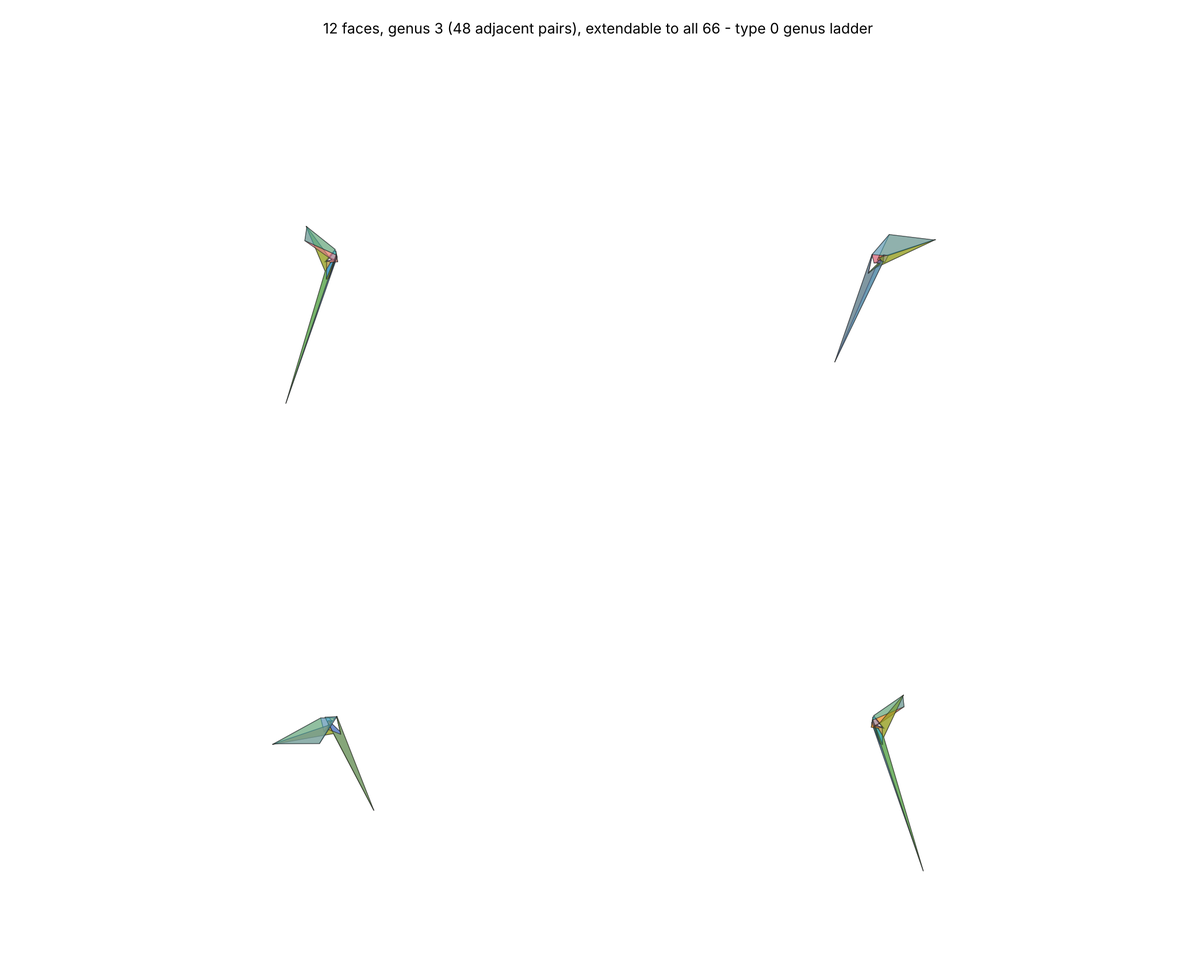
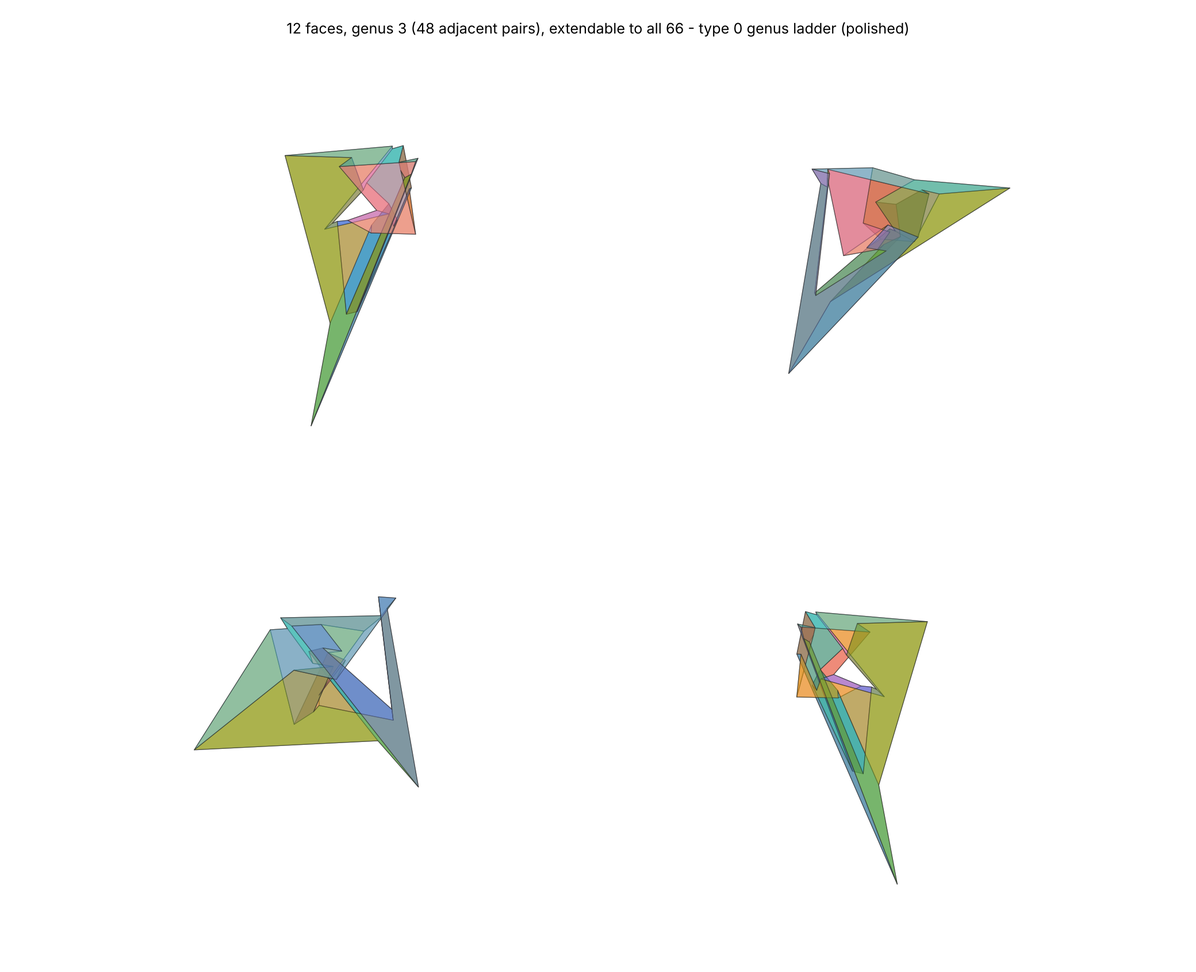
Polished extendable genus-3 polyhedron (beauty x34, exact EMBEDDED) and its picture
Claude-Session: https://claude.ai/code/session_01ARxMvmFKo5a6KFfJkQQMce

diff --git a/research/12-faced-polyhedron/figures/type0_genus3_extendable.html b/research/12-faced-polyhedron/figures/type0_genus3_extendable.html
@@ -1,1 +1,1 @@
-<!doctype html><html><head><meta charset="utf-8"><title>12 faces, genus 3 (48 adjacent pairs), extendable to all 66 - type 0 genus ladder</title><meta name="viewport" content="width=device-width, initial-scale=1"><script src="https://cdnjs.cloudflare.com/ajax/libs/plotly.js/2.27.0/plotly.min.js"></script><style>body{margin:0;background:#fff;font-family:sans-serif}#p{width:100vw;height:92vh}</style></head><body><div style="padding:8px">12 faces, genus 3 (48 adjacent pairs), extendable to all 66 - type 0 genus ladder - drag to rotate</div><div id="p"></div><script>Plotly.newPlot("p", [{"type": "mesh3d", "x": [0.013686609181727457, -0.02636867495457848, 0.001600755157602773, -0.0032965828418797713, -0.002077999082888916, 0.0018472366004558735, 0.08684358756785374, 0.07639365085805613, -0.025449099850801692], "y": [0.019972486161041057, 0.03028030236413229, 0.01505859754224224, 0.014784722804546962, -0.0067581193088864545, -0.015324311525285352, 0.03128363726821121, 0.04505719678962992, 0.045397863353737626], "z": [-0.022902934851897996, 0.013916095720509988, -0.008610080939816002, -0.003499759947135309, 0.0038026241644887274, 0.0031923299332703233, -0.10210593821250086, -0.09689792597126529, 0.006979176437264446], "i": [0, 0, 0, 0, 0, 0, 0, 0], "j": [1, 2, 3, 4, 5, 6, 7, 8], "k": [2, 3, 4, 5, 6, 7, 8, 1], "color": "#2a78d6", "opacity": 0.6, "name": "face 0"}, {"type": "scatter3d", "mode": "lines", "x": [-0.02636867495457848, 0.001600755157602773, -0.0032965828418797713, -0.002077999082888916, 0.0018472366004558735, 0.08684358756785374, 0.07639365085805613, -0.025449099850801692, -0.02636867495457848], "y": [0.03028030236413229, 0.01505859754224224, 0.014784722804546962, -0.0067581193088864545, -0.015324311525285352, 0.03128363726821121, 0.04505719678962992, 0.045397863353737626, 0.03028030236413229], "z": [0.013916095720509988, -0.008610080939816002, -0.003499759947135309, 0.0038026241644887274, 0.0031923299332703233, -0.10210593821250086, -0.09689792597126529, 0.006979176437264446, 0.013916095720509988], "line": {"color": "#222222", "width": 3}, "showlegend": false, "hoverinfo": "skip"}, {"type": "mesh3d", "x": [-0.032036110880695606, -0.025449099850801692, -3.1397592866391706e-05, -0.010480112698551109, 0.006092433171458325, 0.030447124543042835, -0.26391623854117024, 0.0038221620850997346, -0.0024411940878933946, -0.02636867495457848], "y": [-0.033833818656111556, 0.045397863353737626, 0.054179198565382204, 0.038620950485321444, 0.03227057837427876, -0.18510420557753407, -0.34083371959596703, 0.011939545210049111, 0.008745118915595634, 0.03028030236413229], "z": [0.042653444362363464, 0.006979176437264446, 0.012556566174994739, 0.01602711805997262, 0.02548840697875338, 0.13974158939737077, 0.10121217526736694, 0.034418574005493634, 0.033541297219544616, 0.013916095720509988], "i": [0, 0, 0, 0, 0, 0, 0, 0, 0], "j": [1, 2, 3, 4, 5, 6, 7, 8, 9], "k": [2, 3, 4, 5, 6, 7, 8, 9, 1], "color": "#eb6834", "opacity": 0.6, "name": "face 1"}, {"type": "scatter3d", "mode": "lines", "x": [-0.025449099850801692, -3.1397592866391706e-05, -0.010480112698551109, 0.006092433171458325, 0.030447124543042835, -0.26391623854117024, 0.0038221620850997346, -0.0024411940878933946, -0.02636867495457848, -0.025449099850801692], "y": [0.045397863353737626, 0.054179198565382204, 0.038620950485321444, 0.03227057837427876, -0.18510420557753407, -0.34083371959596703, 0.011939545210049111, 0.008745118915595634, 0.03028030236413229, 0.045397863353737626], "z": [0.006979176437264446, 0.012556566174994739, 0.01602711805997262, 0.02548840697875338, 0.13974158939737077, 0.10121217526736694, 0.034418574005493634, 0.033541297219544616, 0.013916095720509988, 0.006979176437264446], "line": {"color": "#222222", "width": 3}, "showlegend": false, "hoverinfo": "skip"}, {"type": "mesh3d", "x": [0.04192894786530688, -0.02636867495457848, -0.0024411940878933946, -0.04364449117122317, -0.049579576541849205, -0.04990193328393963, 0.4620384243506191, 0.04372827345371712, 0.001600755157602773], "y": [0.007269252914990303, 0.03028030236413229, 0.008745118915595634, 0.02905781013324224, 0.033872919828591065, 0.044250950986770766, -0.09970122961309788, -0.0034104468375539417, 0.01505859754224224], "z": [-0.10577784491925482, 0.013916095720509988, 0.033541297219544616, 0.0763718658425457, 0.07390982614329653, 0.02755477676458636, -1.0, -0.0629065401047058, -0.008610080939816002], "i": [0, 0, 0, 0, 0, 0, 0, 0], "j": [1, 2, 3, 4, 5, 6, 7, 8], "k": [2, 3, 4, 5, 6, 7, 8, 1], "color": "#1baf7a", "opacity": 0.6, "name": "face 2"}, {"type": "scatter3d", "mode": "lines", "x": [-0.02636867495457848, -0.0024411940878933946, -0.04364449117122317, -0.049579576541849205, -0.04990193328393963, 0.4620384243506191, 0.04372827345371712, 0.001600755157602773, -0.02636867495457848], "y": [0.03028030236413229, 0.008745118915595634, 0.02905781013324224, 0.033872919828591065, 0.044250950986770766, -0.09970122961309788, -0.0034104468375539417, 0.01505859754224224, 0.03028030236413229], "z": [0.013916095720509988, 0.033541297219544616, 0.0763718658425457, 0.07390982614329653, 0.02755477676458636, -1.0, -0.0629065401047058, -0.008610080939816002, 0.013916095720509988], "line": {"color": "#222222", "width": 3}, "showlegend": false, "hoverinfo": "skip"}, {"type": "mesh3d", "x": [-0.03500013896383689, 0.001600755157602773, 0.04372827345371712, -0.27120038161963317, -0.07458125652306181, -0.014564458043698459, -0.010480112698551109, -3.1397592866391706e-05, -0.02750519834264177, 0.006328969412643666, -0.0032965828418797713], "y": [-0.012372539485415338, 0.01505859754224224, -0.0034104468375539417, -0.35146858998527586, 0.013394182150872644, -0.04060576195883535, 0.038620950485321444, 0.054179198565382204, 0.054746862777013926, 0.0809748896021324, 0.014784722804546962], "z": [0.016982620929827063, -0.008610080939816002, -0.0629065401047058, 0.10169530010711021, 0.07217358538497923, -0.01892312419237348, 0.01602711805997262, 0.012556566174994739, 0.042269590836379586, 0.019043553918864867, -0.003499759947135309], "i": [0, 0, 0, 0, 0, 0, 0, 0, 0, 0], "j": [1, 2, 3, 4, 5, 6, 7, 8, 9, 10], "k": [2, 3, 4, 5, 6, 7, 8, 9, 10, 1], "color": "#eda100", "opacity": 0.6, "name": "face 3"}, {"type": "scatter3d", "mode": "lines", "x": [0.001600755157602773, 0.04372827345371712, -0.27120038161963317, -0.07458125652306181, -0.014564458043698459, -0.010480112698551109, -3.1397592866391706e-05, -0.02750519834264177, 0.006328969412643666, -0.0032965828418797713, 0.001600755157602773], "y": [0.01505859754224224, -0.0034104468375539417, -0.35146858998527586, 0.013394182150872644, -0.04060576195883535, 0.038620950485321444, 0.054179198565382204, 0.054746862777013926, 0.0809748896021324, 0.014784722804546962, 0.01505859754224224], "z": [-0.008610080939816002, -0.0629065401047058, 0.10169530010711021, 0.07217358538497923, -0.01892312419237348, 0.01602711805997262, 0.012556566174994739, 0.042269590836379586, 0.019043553918864867, -0.003499759947135309, -0.008610080939816002], "line": {"color": "#222222", "width": 3}, "showlegend": false, "hoverinfo": "skip"}, {"type": "mesh3d", "x": [0.015060989667626182, -0.0032965828418797713, 0.006328969412643666, 0.023876699764806778, 0.024137086057225598, 0.024977276256605063, 0.025063899727622067, 0.030447124543042835, 0.006092433171458325, -0.002077999082888916], "y": [0.028192047670523596, 0.014784722804546962, 0.0809748896021324, 0.07826614779810359, 0.07765839025237525, 0.0807668536347514, 0.08086917145494463, -0.18510420557753407, 0.03227057837427876, -0.0067581193088864545], "z": [0.056267885830733486, -0.003499759947135309, 0.019043553918864867, 0.07848252596179593, 0.07944890261890873, 0.08181345546800323, 0.08208967391555104, 0.13974158939737077, 0.02548840697875338, 0.0038026241644887274], "i": [0, 0, 0, 0, 0, 0, 0, 0, 0], "j": [1, 2, 3, 4, 5, 6, 7, 8, 9], "k": [2, 3, 4, 5, 6, 7, 8, 9, 1], "color": "#e87ba4", "opacity": 0.6, "name": "face 4"}, {"type": "scatter3d", "mode": "lines", "x": [-0.0032965828418797713, 0.006328969412643666, 0.023876699764806778, 0.024137086057225598, 0.024977276256605063, 0.025063899727622067, 0.030447124543042835, 0.006092433171458325, -0.002077999082888916, -0.0032965828418797713], "y": [0.014784722804546962, 0.0809748896021324, 0.07826614779810359, 0.07765839025237525, 0.0807668536347514, 0.08086917145494463, -0.18510420557753407, 0.03227057837427876, -0.0067581193088864545, 0.014784722804546962], "z": [-0.003499759947135309, 0.019043553918864867, 0.07848252596179593, 0.07944890261890873, 0.08181345546800323, 0.08208967391555104, 0.13974158939737077, 0.02548840697875338, 0.0038026241644887274, -0.003499759947135309], "line": {"color": "#222222", "width": 3}, "showlegend": false, "hoverinfo": "skip"}, {"type": "mesh3d", "x": [-0.0028995877311982564, -0.002077999082888916, 0.006092433171458325, -0.010480112698551109, -0.014564458043698459, 0.001785373666034746, 0.0018472366004558735], "y": [-0.0012180230434134486, -0.0067581193088864545, 0.03227057837427876, 0.038620950485321444, -0.04060576195883535, -0.015511474327073746, -0.015324311525285352], "z": [0.005443205413388355, 0.0038026241644887274, 0.02548840697875338, 0.01602711805997262, -0.01892312419237348, 0.003071877536218567, 0.0031923299332703233], "i": [0, 0, 0, 0, 0, 0], "j": [1, 2, 3, 4, 5, 6], "k": [2, 3, 4, 5, 6, 1], "color": "#8a63d2", "opacity": 0.6, "name": "face 5"}, {"type": "scatter3d", "mode": "lines", "x": [-0.002077999082888916, 0.006092433171458325, -0.010480112698551109, -0.014564458043698459, 0.001785373666034746, 0.0018472366004558735, -0.002077999082888916], "y": [-0.0067581193088864545, 0.03227057837427876, 0.038620950485321444, -0.04060576195883535, -0.015511474327073746, -0.015324311525285352, -0.0067581193088864545], "z": [0.0038026241644887274, 0.02548840697875338, 0.01602711805997262, -0.01892312419237348, 0.003071877536218567, 0.0031923299332703233, 0.0038026241644887274], "line": {"color": "#222222", "width": 3}, "showlegend": false, "hoverinfo": "skip"}, {"type": "mesh3d", "x": [-0.06681725306915992, 0.030447124543042835, 0.025063899727622067, 0.02220495570616272, 0.023850686797670658, -0.049579576541849205, -0.04364449117122317, -0.07458125652306181, -0.27120038161963317, -0.26391623854117024], "y": [-0.06255227368372689, -0.18510420557753407, 0.08086917145494463, 0.07991916572839305, 0.07732280270919142, 0.033872919828591065, 0.02905781013324224, 0.013394182150872644, -0.35146858998527586, -0.34083371959596703], "z": [0.09014849972986078, 0.13974158939737077, 0.08208967391555104, 0.08159630754516388, 0.08254617396536273, 0.07390982614329653, 0.0763718658425457, 0.07217358538497923, 0.10169530010711021, 0.10121217526736694], "i": [0, 0, 0, 0, 0, 0, 0, 0, 0], "j": [1, 2, 3, 4, 5, 6, 7, 8, 9], "k": [2, 3, 4, 5, 6, 7, 8, 9, 1], "color": "#3fb6c6", "opacity": 0.6, "name": "face 6"}, {"type": "scatter3d", "mode": "lines", "x": [0.030447124543042835, 0.025063899727622067, 0.02220495570616272, 0.023850686797670658, -0.049579576541849205, -0.04364449117122317, -0.07458125652306181, -0.27120038161963317, -0.26391623854117024, 0.030447124543042835], "y": [-0.18510420557753407, 0.08086917145494463, 0.07991916572839305, 0.07732280270919142, 0.033872919828591065, 0.02905781013324224, 0.013394182150872644, -0.35146858998527586, -0.34083371959596703, -0.18510420557753407], "z": [0.13974158939737077, 0.08208967391555104, 0.08159630754516388, 0.08254617396536273, 0.07390982614329653, 0.0763718658425457, 0.07217358538497923, 0.10169530010711021, 0.10121217526736694, 0.13974158939737077], "line": {"color": "#222222", "width": 3}, "showlegend": false, "hoverinfo": "skip"}, {"type": "mesh3d", "x": [-0.012155058698884919, -0.049579576541849205, 0.023850686797670658, 0.023876699764806778, 0.006328969412643666, -0.02750519834264177, -0.04990193328393963], "y": [0.061572428950300524, 0.033872919828591065, 0.07732280270919142, 0.07826614779810359, 0.0809748896021324, 0.054746862777013926, 0.044250950986770766], "z": [0.053967741265047664, 0.07390982614329653, 0.08254617396536273, 0.07848252596179593, 0.019043553918864867, 0.042269590836379586, 0.02755477676458636], "i": [0, 0, 0, 0, 0, 0], "j": [1, 2, 3, 4, 5, 6], "k": [2, 3, 4, 5, 6, 1], "color": "#c4553a", "opacity": 0.6, "name": "face 7"}, {"type": "scatter3d", "mode": "lines", "x": [-0.049579576541849205, 0.023850686797670658, 0.023876699764806778, 0.006328969412643666, -0.02750519834264177, -0.04990193328393963, -0.049579576541849205], "y": [0.033872919828591065, 0.07732280270919142, 0.07826614779810359, 0.0809748896021324, 0.054746862777013926, 0.044250950986770766, 0.033872919828591065], "z": [0.07390982614329653, 0.08254617396536273, 0.07848252596179593, 0.019043553918864867, 0.042269590836379586, 0.02755477676458636, 0.07390982614329653], "line": {"color": "#222222", "width": 3}, "showlegend": false, "hoverinfo": "skip"}, {"type": "mesh3d", "x": [0.01140627998768076, 0.0018472366004558735, 0.001785373666034746, 0.0038221620850997346, -0.26391623854117024, -0.27120038161963317, 0.04372827345371712, 0.4620384243506191, 0.024977276256605063, 0.024137086057225598, 0.08684358756785374], "y": [-0.06246013455188668, -0.015324311525285352, -0.015511474327073746, 0.011939545210049111, -0.34083371959596703, -0.35146858998527586, -0.0034104468375539417, -0.09970122961309788, 0.0807668536347514, 0.07765839025237525, 0.03128363726821121], "z": [-0.07601598633808351, 0.0031923299332703233, 0.003071877536218567, 0.034418574005493634, 0.10121217526736694, 0.10169530010711021, -0.0629065401047058, -1.0, 0.08181345546800323, 0.07944890261890873, -0.10210593821250086], "i": [0, 0, 0, 0, 0, 0, 0, 0, 0, 0], "j": [1, 2, 3, 4, 5, 6, 7, 8, 9, 10], "k": [2, 3, 4, 5, 6, 7, 8, 9, 10, 1], "color": "#6f9e2f", "opacity": 0.6, "name": "face 8"}, {"type": "scatter3d", "mode": "lines", "x": [0.0018472366004558735, 0.001785373666034746, 0.0038221620850997346, -0.26391623854117024, -0.27120038161963317, 0.04372827345371712, 0.4620384243506191, 0.024977276256605063, 0.024137086057225598, 0.08684358756785374, 0.0018472366004558735], "y": [-0.015324311525285352, -0.015511474327073746, 0.011939545210049111, -0.34083371959596703, -0.35146858998527586, -0.0034104468375539417, -0.09970122961309788, 0.0807668536347514, 0.07765839025237525, 0.03128363726821121, -0.015324311525285352], "z": [0.0031923299332703233, 0.003071877536218567, 0.034418574005493634, 0.10121217526736694, 0.10169530010711021, -0.0629065401047058, -1.0, 0.08181345546800323, 0.07944890261890873, -0.10210593821250086, 0.0031923299332703233], "line": {"color": "#222222", "width": 3}, "showlegend": false, "hoverinfo": "skip"}, {"type": "mesh3d", "x": [0.04288444445862927, 0.08684358756785374, 0.024137086057225598, 0.023876699764806778, 0.023850686797670658, 0.02220495570616272, 0.07639365085805613], "y": [0.06491789009098409, 0.03128363726821121, 0.07765839025237525, 0.07826614779810359, 0.07732280270919142, 0.07991916572839305, 0.04505719678962992], "z": [0.020511674317910854, -0.10210593821250086, 0.07944890261890873, 0.07848252596179593, 0.08254617396536273, 0.08159630754516388, -0.09689792597126529], "i": [0, 0, 0, 0, 0, 0], "j": [1, 2, 3, 4, 5, 6], "k": [2, 3, 4, 5, 6, 1], "color": "#b8860b", "opacity": 0.6, "name": "face 9"}, {"type": "scatter3d", "mode": "lines", "x": [0.08684358756785374, 0.024137086057225598, 0.023876699764806778, 0.023850686797670658, 0.02220495570616272, 0.07639365085805613, 0.08684358756785374], "y": [0.03128363726821121, 0.07765839025237525, 0.07826614779810359, 0.07732280270919142, 0.07991916572839305, 0.04505719678962992, 0.03128363726821121], "z": [-0.10210593821250086, 0.07944890261890873, 0.07848252596179593, 0.08254617396536273, 0.08159630754516388, -0.09689792597126529, -0.10210593821250086], "line": {"color": "#222222", "width": 3}, "showlegend": false, "hoverinfo": "skip"}, {"type": "mesh3d", "x": [-0.021603977345790393, 0.0038221620850997346, 0.001785373666034746, -0.014564458043698459, -0.07458125652306181, -0.04364449117122317, -0.0024411940878933946], "y": [0.0011699033539750894, 0.011939545210049111, -0.015511474327073746, -0.04060576195883535, 0.013394182150872644, 0.02905781013324224, 0.008745118915595634], "z": [0.03344234596606804, 0.034418574005493634, 0.003071877536218567, -0.01892312419237348, 0.07217358538497923, 0.0763718658425457, 0.033541297219544616], "i": [0, 0, 0, 0, 0, 0], "j": [1, 2, 3, 4, 5, 6], "k": [2, 3, 4, 5, 6, 1], "color": "#d0679d", "opacity": 0.6, "name": "face 10"}, {"type": "scatter3d", "mode": "lines", "x": [0.0038221620850997346, 0.001785373666034746, -0.014564458043698459, -0.07458125652306181, -0.04364449117122317, -0.0024411940878933946, 0.0038221620850997346], "y": [0.011939545210049111, -0.015511474327073746, -0.04060576195883535, 0.013394182150872644, 0.02905781013324224, 0.008745118915595634, 0.011939545210049111], "z": [0.034418574005493634, 0.003071877536218567, -0.01892312419237348, 0.07217358538497923, 0.0763718658425457, 0.033541297219544616, 0.034418574005493634], "line": {"color": "#222222", "width": 3}, "showlegend": false, "hoverinfo": "skip"}, {"type": "mesh3d", "x": [0.05642117531431284, 0.07639365085805613, 0.02220495570616272, 0.025063899727622067, 0.024977276256605063, 0.4620384243506191, -0.04990193328393963, -0.02750519834264177, -3.1397592866391706e-05, -0.025449099850801692], "y": [0.042831781519725075, 0.04505719678962992, 0.07991916572839305, 0.08086917145494463, 0.0807668536347514, -0.09970122961309788, 0.044250950986770766, 0.054746862777013926, 0.054179198565382204, 0.045397863353737626], "z": [-0.08467093098103577, -0.09689792597126529, 0.08159630754516388, 0.08208967391555104, 0.08181345546800323, -1.0, 0.02755477676458636, 0.042269590836379586, 0.012556566174994739, 0.006979176437264446], "i": [0, 0, 0, 0, 0, 0, 0, 0, 0], "j": [1, 2, 3, 4, 5, 6, 7, 8, 9], "k": [2, 3, 4, 5, 6, 7, 8, 9, 1], "color": "#5a6fb3", "opacity": 0.6, "name": "face 11"}, {"type": "scatter3d", "mode": "lines", "x": [0.07639365085805613, 0.02220495570616272, 0.025063899727622067, 0.024977276256605063, 0.4620384243506191, -0.04990193328393963, -0.02750519834264177, -3.1397592866391706e-05, -0.025449099850801692, 0.07639365085805613], "y": [0.04505719678962992, 0.07991916572839305, 0.08086917145494463, 0.0807668536347514, -0.09970122961309788, 0.044250950986770766, 0.054746862777013926, 0.054179198565382204, 0.045397863353737626, 0.04505719678962992], "z": [-0.09689792597126529, 0.08159630754516388, 0.08208967391555104, 0.08181345546800323, -1.0, 0.02755477676458636, 0.042269590836379586, 0.012556566174994739, 0.006979176437264446, -0.09689792597126529], "line": {"color": "#222222", "width": 3}, "showlegend": false, "hoverinfo": "skip"}], {scene:{aspectmode:"cube",xaxis:{visible:false},yaxis:{visible:false},zaxis:{visible:false}},margin:{l:0,r:0,t:0,b:0}});</script></body></html>
+<!doctype html><html><head><meta charset="utf-8"><title>12 faces, genus 3 (48 adjacent pairs), extendable to all 66 - type 0 genus ladder (polished)</title><meta name="viewport" content="width=device-width, initial-scale=1"><script src="https://cdnjs.cloudflare.com/ajax/libs/plotly.js/2.27.0/plotly.min.js"></script><style>body{margin:0;background:#fff;font-family:sans-serif}#p{width:100vw;height:92vh}</style></head><body><div style="padding:8px">12 faces, genus 3 (48 adjacent pairs), extendable to all 66 - type 0 genus ladder (polished) - drag to rotate</div><div id="p"></div><script>Plotly.newPlot("p", [{"type": "mesh3d", "x": [-0.06437928193515932, -0.34652032315526027, -0.1808113495928953, -0.13816819451070692, -0.13052808775337665, -0.09185975356496928, 0.354835801853336, 0.3068254489616566, -0.28880779771905857], "y": [0.26943485044845444, 0.31348637283589387, 0.2616305929949012, 0.28087697220943236, 0.08837662148832981, 0.021099991210585693, 0.3541797088637834, 0.4188151043355833, 0.417013439649126], "z": [0.18413552120682644, 0.4041811952725126, 0.2840647453325696, 0.24171215961607515, 0.3029184496294105, 0.29426057193262994, -0.1955481894347362, -0.1781649592981768, 0.3196601966043268], "i": [0, 0, 0, 0, 0, 0, 0, 0], "j": [1, 2, 3, 4, 5, 6, 7, 8], "k": [2, 3, 4, 5, 6, 7, 8, 1], "color": "#2a78d6", "opacity": 0.6, "name": "face 0"}, {"type": "scatter3d", "mode": "lines", "x": [-0.34652032315526027, -0.1808113495928953, -0.13816819451070692, -0.13052808775337665, -0.09185975356496928, 0.354835801853336, 0.3068254489616566, -0.28880779771905857, -0.34652032315526027], "y": [0.31348637283589387, 0.2616305929949012, 0.28087697220943236, 0.08837662148832981, 0.021099991210585693, 0.3541797088637834, 0.4188151043355833, 0.417013439649126, 0.31348637283589387], "z": [0.4041811952725126, 0.2840647453325696, 0.24171215961607515, 0.3029184496294105, 0.29426057193262994, -0.1955481894347362, -0.1781649592981768, 0.3196601966043268, 0.4041811952725126], "line": {"color": "#222222", "width": 3}, "showlegend": false, "hoverinfo": "skip"}, {"type": "mesh3d", "x": [-0.18990148876044044, -0.28880779771905857, -0.1537768425795607, -0.22555372610162044, -0.06837426564191139, 0.009060255001583735, -0.2991874768510429, -0.09769808058567657, -0.23825514121141672, -0.34652032315526027], "y": [0.27539490004742434, 0.417013439649126, 0.46070085435630415, 0.3815836165949812, 0.36473688394271775, 0.09506937853804921, 0.023746461588306216, 0.23642375292113768, 0.18579334000030306, 0.31348637283589387], "z": [0.5105488099973425, 0.3196601966043268, 0.33083259673608906, 0.38371404157454025, 0.4679622716869293, 0.7845146178371463, 0.7291171944994146, 0.5905809466244897, 0.5843762291406354, 0.4041811952725126], "i": [0, 0, 0, 0, 0, 0, 0, 0, 0], "j": [1, 2, 3, 4, 5, 6, 7, 8, 9], "k": [2, 3, 4, 5, 6, 7, 8, 9, 1], "color": "#eb6834", "opacity": 0.6, "name": "face 1"}, {"type": "scatter3d", "mode": "lines", "x": [-0.28880779771905857, -0.1537768425795607, -0.22555372610162044, -0.06837426564191139, 0.009060255001583735, -0.2991874768510429, -0.09769808058567657, -0.23825514121141672, -0.34652032315526027, -0.28880779771905857], "y": [0.417013439649126, 0.46070085435630415, 0.3815836165949812, 0.36473688394271775, 0.09506937853804921, 0.023746461588306216, 0.23642375292113768, 0.18579334000030306, 0.31348637283589387, 0.417013439649126], "z": [0.3196601966043268, 0.33083259673608906, 0.38371404157454025, 0.4679622716869293, 0.7845146178371463, 0.7291171944994146, 0.5905809466244897, 0.5843762291406354, 0.4041811952725126, 0.3196601966043268], "line": {"color": "#222222", "width": 3}, "showlegend": false, "hoverinfo": "skip"}, {"type": "mesh3d", "x": [-0.17311214343579653, -0.34652032315526027, -0.23825514121141672, -0.4902777469465433, -0.573506388059111, -0.5396181736189111, 0.6681052765257243, 0.3159866985720415, -0.1808113495928953], "y": [0.2699675722276571, 0.31348637283589387, 0.18579334000030306, 0.26004914583191274, 0.3062099395650022, 0.3981360993771438, 0.23850120210785555, 0.19593388510824425, 0.2616305929949012], "z": [0.24885292792812203, 0.4041811952725126, 0.5843762291406354, 0.7797704713232564, 0.7846343168003138, 0.47736029494328447, -1.0, -0.32356382938759576, 0.2840647453325696], "i": [0, 0, 0, 0, 0, 0, 0, 0], "j": [1, 2, 3, 4, 5, 6, 7, 8], "k": [2, 3, 4, 5, 6, 7, 8, 1], "color": "#1baf7a", "opacity": 0.6, "name": "face 2"}, {"type": "scatter3d", "mode": "lines", "x": [-0.34652032315526027, -0.23825514121141672, -0.4902777469465433, -0.573506388059111, -0.5396181736189111, 0.6681052765257243, 0.3159866985720415, -0.1808113495928953, -0.34652032315526027], "y": [0.31348637283589387, 0.18579334000030306, 0.26004914583191274, 0.3062099395650022, 0.3981360993771438, 0.23850120210785555, 0.19593388510824425, 0.2616305929949012, 0.31348637283589387], "z": [0.4041811952725126, 0.5843762291406354, 0.7797704713232564, 0.7846343168003138, 0.47736029494328447, -1.0, -0.32356382938759576, 0.2840647453325696, 0.4041811952725126], "line": {"color": "#222222", "width": 3}, "showlegend": false, "hoverinfo": "skip"}, {"type": "mesh3d", "x": [-0.22847662802430624, -0.1808113495928953, 0.3159866985720415, -0.6681052765257243, -0.5990804411155639, -0.2038633959867185, -0.22555372610162044, -0.1537768425795607, -0.3423484083941272, -0.08904534400818706, -0.13816819451070692], "y": [0.20213511733980152, 0.2616305929949012, 0.19593388510824425, -0.7709435025211471, 0.20082456212508554, -0.15152068242899874, 0.3815836165949812, 0.46070085435630415, 0.4856110487909599, 0.6766538261682523, 0.28087697220943236], "z": [0.31644179988935645, 0.2840647453325696, -0.32356382938759576, 0.4478929210068464, 0.7498998789943394, 0.14829481145557508, 0.38371404157454025, 0.33083259673608906, 0.5614620726239639, 0.3401086009411615, 0.24171215961607515], "i": [0, 0, 0, 0, 0, 0, 0, 0, 0, 0], "j": [1, 2, 3, 4, 5, 6, 7, 8, 9, 10], "k": [2, 3, 4, 5, 6, 7, 8, 9, 10, 1], "color": "#eda100", "opacity": 0.6, "name": "face 3"}, {"type": "scatter3d", "mode": "lines", "x": [-0.1808113495928953, 0.3159866985720415, -0.6681052765257243, -0.5990804411155639, -0.2038633959867185, -0.22555372610162044, -0.1537768425795607, -0.3423484083941272, -0.08904534400818706, -0.13816819451070692, -0.1808113495928953], "y": [0.2616305929949012, 0.19593388510824425, -0.7709435025211471, 0.20082456212508554, -0.15152068242899874, 0.3815836165949812, 0.46070085435630415, 0.4856110487909599, 0.6766538261682523, 0.28087697220943236, 0.2616305929949012], "z": [0.2840647453325696, -0.32356382938759576, 0.4478929210068464, 0.7498998789943394, 0.14829481145557508, 0.38371404157454025, 0.33083259673608906, 0.5614620726239639, 0.3401086009411615, 0.24171215961607515, 0.2840647453325696], "line": {"color": "#222222", "width": 3}, "showlegend": false, "hoverinfo": "skip"}, {"type": "mesh3d", "x": [-0.013545224598528447, -0.13816819451070692, -0.08904534400818706, 0.06706576545284831, 0.052522365688236275, 0.06889302313699543, 0.10666746124776225, 0.009060255001583735, -0.06837426564191139, -0.13052808775337665], "y": [0.47579258551683196, 0.28087697220943236, 0.6766538261682523, 0.630741240993024, 0.657148331238407, 0.7175865125521284, 0.7709435025211471, 0.09506937853804921, 0.36473688394271775, 0.08837662148832981], "z": [0.637538406659328, 0.24171215961607515, 0.3401086009411615, 0.8883580885785768, 0.8332844478193321, 0.8789870238253203, 1.0, 0.7845146178371463, 0.4679622716869293, 0.3029184496294105], "i": [0, 0, 0, 0, 0, 0, 0, 0, 0], "j": [1, 2, 3, 4, 5, 6, 7, 8, 9], "k": [2, 3, 4, 5, 6, 7, 8, 9, 1], "color": "#e87ba4", "opacity": 0.6, "name": "face 4"}, {"type": "scatter3d", "mode": "lines", "x": [-0.13816819451070692, -0.08904534400818706, 0.06706576545284831, 0.052522365688236275, 0.06889302313699543, 0.10666746124776225, 0.009060255001583735, -0.06837426564191139, -0.13052808775337665, -0.13816819451070692], "y": [0.28087697220943236, 0.6766538261682523, 0.630741240993024, 0.657148331238407, 0.7175865125521284, 0.7709435025211471, 0.09506937853804921, 0.36473688394271775, 0.08837662148832981, 0.28087697220943236], "z": [0.24171215961607515, 0.3401086009411615, 0.8883580885785768, 0.8332844478193321, 0.8789870238253203, 1.0, 0.7845146178371463, 0.4679622716869293, 0.3029184496294105, 0.24171215961607515], "line": {"color": "#222222", "width": 3}, "showlegend": false, "hoverinfo": "skip"}, {"type": "mesh3d", "x": [-0.13813584567270967, -0.13052808775337665, -0.06837426564191139, -0.22555372610162044, -0.2038633959867185, -0.10863584498766178, -0.09185975356496928], "y": [0.11216913338949124, 0.08837662148832981, 0.36473688394271775, 0.3815836165949812, -0.15152068242899874, -0.03126163047066828, 0.021099991210585693], "z": [0.3095351185731832, 0.3029184496294105, 0.4679622716869293, 0.38371404157454025, 0.14829481145557508, 0.26006056516001425, 0.29426057193262994], "i": [0, 0, 0, 0, 0, 0], "j": [1, 2, 3, 4, 5, 6], "k": [2, 3, 4, 5, 6, 1], "color": "#8a63d2", "opacity": 0.6, "name": "face 5"}, {"type": "scatter3d", "mode": "lines", "x": [-0.13052808775337665, -0.06837426564191139, -0.22555372610162044, -0.2038633959867185, -0.10863584498766178, -0.09185975356496928, -0.13052808775337665], "y": [0.08837662148832981, 0.36473688394271775, 0.3815836165949812, -0.15152068242899874, -0.03126163047066828, 0.021099991210585693, 0.08837662148832981], "z": [0.3029184496294105, 0.4679622716869293, 0.38371404157454025, 0.14829481145557508, 0.26006056516001425, 0.29426057193262994, 0.3029184496294105], "line": {"color": "#222222", "width": 3}, "showlegend": false, "hoverinfo": "skip"}, {"type": "mesh3d", "x": [-0.2725680343689045, 0.009060255001583735, 0.10666746124776225, -0.009752002772212953, 0.07106930670071229, -0.573506388059111, -0.4902777469465433, -0.5990804411155639, -0.6681052765257243, -0.2991874768510429], "y": [0.24797058339325556, 0.09506937853804921, 0.7709435025211471, 0.7276038610760117, 0.618231901814932, 0.3062099395650022, 0.26004914583191274, 0.20082456212508554, -0.7709435025211471, 0.023746461588306216], "z": [0.7999738000449965, 0.7845146178371463, 1.0, 0.974107599617267, 0.9498272003263855, 0.7846343168003138, 0.7797704713232564, 0.7498998789943394, 0.4478929210068464, 0.7291171944994146], "i": [0, 0, 0, 0, 0, 0, 0, 0, 0], "j": [1, 2, 3, 4, 5, 6, 7, 8, 9], "k": [2, 3, 4, 5, 6, 7, 8, 9, 1], "color": "#3fb6c6", "opacity": 0.6, "name": "face 6"}, {"type": "scatter3d", "mode": "lines", "x": [0.009060255001583735, 0.10666746124776225, -0.009752002772212953, 0.07106930670071229, -0.573506388059111, -0.4902777469465433, -0.5990804411155639, -0.6681052765257243, -0.2991874768510429, 0.009060255001583735], "y": [0.09506937853804921, 0.7709435025211471, 0.7276038610760117, 0.618231901814932, 0.3062099395650022, 0.26004914583191274, 0.20082456212508554, -0.7709435025211471, 0.023746461588306216, 0.09506937853804921], "z": [0.7845146178371463, 1.0, 0.974107599617267, 0.9498272003263855, 0.7846343168003138, 0.7797704713232564, 0.7498998789943394, 0.4478929210068464, 0.7291171944994146, 0.7845146178371463], "line": {"color": "#222222", "width": 3}, "showlegend": false, "hoverinfo": "skip"}, {"type": "mesh3d", "x": [-0.23439720698779598, -0.573506388059111, 0.07106930670071229, 0.06706576545284831, -0.08904534400818706, -0.3423484083941272, -0.5396181736189111], "y": [0.5192640094515524, 0.3062099395650022, 0.618231901814932, 0.630741240993024, 0.6766538261682523, 0.4856110487909599, 0.3981360993771438], "z": [0.6669584290356143, 0.7846343168003138, 0.9498272003263855, 0.8883580885785768, 0.3401086009411615, 0.5614620726239639, 0.47736029494328447], "i": [0, 0, 0, 0, 0, 0], "j": [1, 2, 3, 4, 5, 6], "k": [2, 3, 4, 5, 6, 1], "color": "#c4553a", "opacity": 0.6, "name": "face 7"}, {"type": "scatter3d", "mode": "lines", "x": [-0.573506388059111, 0.07106930670071229, 0.06706576545284831, -0.08904534400818706, -0.3423484083941272, -0.5396181736189111, -0.573506388059111], "y": [0.3062099395650022, 0.618231901814932, 0.630741240993024, 0.6766538261682523, 0.4856110487909599, 0.3981360993771438, 0.3062099395650022], "z": [0.7846343168003138, 0.9498272003263855, 0.8883580885785768, 0.3401086009411615, 0.5614620726239639, 0.47736029494328447, 0.7846343168003138], "line": {"color": "#222222", "width": 3}, "showlegend": false, "hoverinfo": "skip"}, {"type": "mesh3d", "x": [0.019485673326125864, -0.09185975356496928, -0.10863584498766178, -0.09769808058567657, -0.2991874768510429, -0.6681052765257243, 0.3159866985720415, 0.6681052765257243, 0.06889302313699543, 0.052522365688236275, 0.354835801853336], "y": [0.16424147125986327, 0.021099991210585693, -0.03126163047066828, 0.23642375292113768, 0.023746461588306216, -0.7709435025211471, 0.19593388510824425, 0.23850120210785555, 0.7175865125521284, 0.657148331238407, 0.3541797088637834], "z": [0.2515071652045715, 0.29426057193262994, 0.26006056516001425, 0.5905809466244897, 0.7291171944994146, 0.4478929210068464, -0.32356382938759576, -1.0, 0.8789870238253203, 0.8332844478193321, -0.1955481894347362], "i": [0, 0, 0, 0, 0, 0, 0, 0, 0, 0], "j": [1, 2, 3, 4, 5, 6, 7, 8, 9, 10], "k": [2, 3, 4, 5, 6, 7, 8, 9, 10, 1], "color": "#6f9e2f", "opacity": 0.6, "name": "face 8"}, {"type": "scatter3d", "mode": "lines", "x": [-0.09185975356496928, -0.10863584498766178, -0.09769808058567657, -0.2991874768510429, -0.6681052765257243, 0.3159866985720415, 0.6681052765257243, 0.06889302313699543, 0.052522365688236275, 0.354835801853336, -0.09185975356496928], "y": [0.021099991210585693, -0.03126163047066828, 0.23642375292113768, 0.023746461588306216, -0.7709435025211471, 0.19593388510824425, 0.23850120210785555, 0.7175865125521284, 0.657148331238407, 0.3541797088637834, 0.021099991210585693], "z": [0.29426057193262994, 0.26006056516001425, 0.5905809466244897, 0.7291171944994146, 0.4478929210068464, -0.32356382938759576, -1.0, 0.8789870238253203, 0.8332844478193321, -0.1955481894347362, 0.29426057193262994], "line": {"color": "#222222", "width": 3}, "showlegend": false, "hoverinfo": "skip"}, {"type": "mesh3d", "x": [0.14042778098076272, 0.354835801853336, 0.052522365688236275, 0.06706576545284831, 0.07106930670071229, -0.009752002772212953, 0.3068254489616566], "y": [0.5677866913869569, 0.3541797088637834, 0.657148331238407, 0.630741240993024, 0.618231901814932, 0.7276038610760117, 0.4188151043355833], "z": [0.5453106979347747, -0.1955481894347362, 0.8332844478193321, 0.8883580885785768, 0.9498272003263855, 0.974107599617267, -0.1781649592981768], "i": [0, 0, 0, 0, 0, 0], "j": [1, 2, 3, 4, 5, 6], "k": [2, 3, 4, 5, 6, 1], "color": "#b8860b", "opacity": 0.6, "name": "face 9"}, {"type": "scatter3d", "mode": "lines", "x": [0.354835801853336, 0.052522365688236275, 0.06706576545284831, 0.07106930670071229, -0.009752002772212953, 0.3068254489616566, 0.354835801853336], "y": [0.3541797088637834, 0.657148331238407, 0.630741240993024, 0.618231901814932, 0.7276038610760117, 0.4188151043355833, 0.3541797088637834], "z": [-0.1955481894347362, 0.8332844478193321, 0.8883580885785768, 0.9498272003263855, 0.974107599617267, -0.1781649592981768, -0.1955481894347362], "line": {"color": "#222222", "width": 3}, "showlegend": false, "hoverinfo": "skip"}, {"type": "mesh3d", "x": [-0.2896351084722635, -0.09769808058567657, -0.10863584498766178, -0.2038633959867185, -0.5990804411155639, -0.4902777469465433, -0.23825514121141672], "y": [0.11671808132979533, 0.23642375292113768, -0.03126163047066828, -0.15152068242899874, 0.20082456212508554, 0.26004914583191274, 0.18579334000030306], "z": [0.5188304837830517, 0.5905809466244897, 0.26006056516001425, 0.14829481145557508, 0.7498998789943394, 0.7797704713232564, 0.5843762291406354], "i": [0, 0, 0, 0, 0, 0], "j": [1, 2, 3, 4, 5, 6], "k": [2, 3, 4, 5, 6, 1], "color": "#d0679d", "opacity": 0.6, "name": "face 10"}, {"type": "scatter3d", "mode": "lines", "x": [-0.09769808058567657, -0.10863584498766178, -0.2038633959867185, -0.5990804411155639, -0.4902777469465433, -0.23825514121141672, -0.09769808058567657], "y": [0.23642375292113768, -0.03126163047066828, -0.15152068242899874, 0.20082456212508554, 0.26004914583191274, 0.18579334000030306, 0.23642375292113768], "z": [0.5905809466244897, 0.26006056516001425, 0.14829481145557508, 0.7498998789943394, 0.7797704713232564, 0.5843762291406354, 0.5905809466244897], "line": {"color": "#222222", "width": 3}, "showlegend": false, "hoverinfo": "skip"}, {"type": "mesh3d", "x": [-0.020423557245747997, 0.3068254489616566, -0.009752002772212953, 0.10666746124776225, 0.06889302313699543, 0.6681052765257243, -0.5396181736189111, -0.3423484083941272, -0.1537768425795607, -0.28880779771905857], "y": [0.5149901805295845, 0.4188151043355833, 0.7276038610760117, 0.7709435025211471, 0.7175865125521284, 0.23850120210785555, 0.3981360993771438, 0.4856110487909599, 0.46070085435630415, 0.417013439649126], "z": [0.37380498056134165, -0.1781649592981768, 0.974107599617267, 1.0, 0.8789870238253203, -1.0, 0.47736029494328447, 0.5614620726239639, 0.33083259673608906, 0.3196601966043268], "i": [0, 0, 0, 0, 0, 0, 0, 0, 0], "j": [1, 2, 3, 4, 5, 6, 7, 8, 9], "k": [2, 3, 4, 5, 6, 7, 8, 9, 1], "color": "#5a6fb3", "opacity": 0.6, "name": "face 11"}, {"type": "scatter3d", "mode": "lines", "x": [0.3068254489616566, -0.009752002772212953, 0.10666746124776225, 0.06889302313699543, 0.6681052765257243, -0.5396181736189111, -0.3423484083941272, -0.1537768425795607, -0.28880779771905857, 0.3068254489616566], "y": [0.4188151043355833, 0.7276038610760117, 0.7709435025211471, 0.7175865125521284, 0.23850120210785555, 0.3981360993771438, 0.4856110487909599, 0.46070085435630415, 0.417013439649126, 0.4188151043355833], "z": [-0.1781649592981768, 0.974107599617267, 1.0, 0.8789870238253203, -1.0, 0.47736029494328447, 0.5614620726239639, 0.33083259673608906, 0.3196601966043268, -0.1781649592981768], "line": {"color": "#222222", "width": 3}, "showlegend": false, "hoverinfo": "skip"}], {scene:{aspectmode:"cube",xaxis:{visible:false},yaxis:{visible:false},zaxis:{visible:false}},margin:{l:0,r:0,t:0,b:0}});</script></body></html>

diff --git a/research/12-faced-polyhedron/code/render_solid.py b/research/12-faced-polyhedron/code/render_solid.py
@@ -20,7 +20,7 @@ if 'solid' in r:
 else:                                                   # a map-based result: planes + dual triangles
     tris = [tuple(t) for t in r['triangles']]
 L = links_from(coherent_triangles(tris), n); P = polygons(A.H, L)
-V = np.vstack(list(P.values())); c = V.mean(0); s = np.abs(V - c).max()
+V = np.vstack(list(P.values())); c = (V.max(0) + V.min(0)) / 2; s = np.abs(V - c).max()
 Q = {X: (q - c) / s for X, q in P.items()}
 fig = plt.figure(figsize=(16, 13), dpi=130)
 for i, (el, az) in enumerate([(25, 30), (25, 120), (70, -60), (-20, 210)]):
